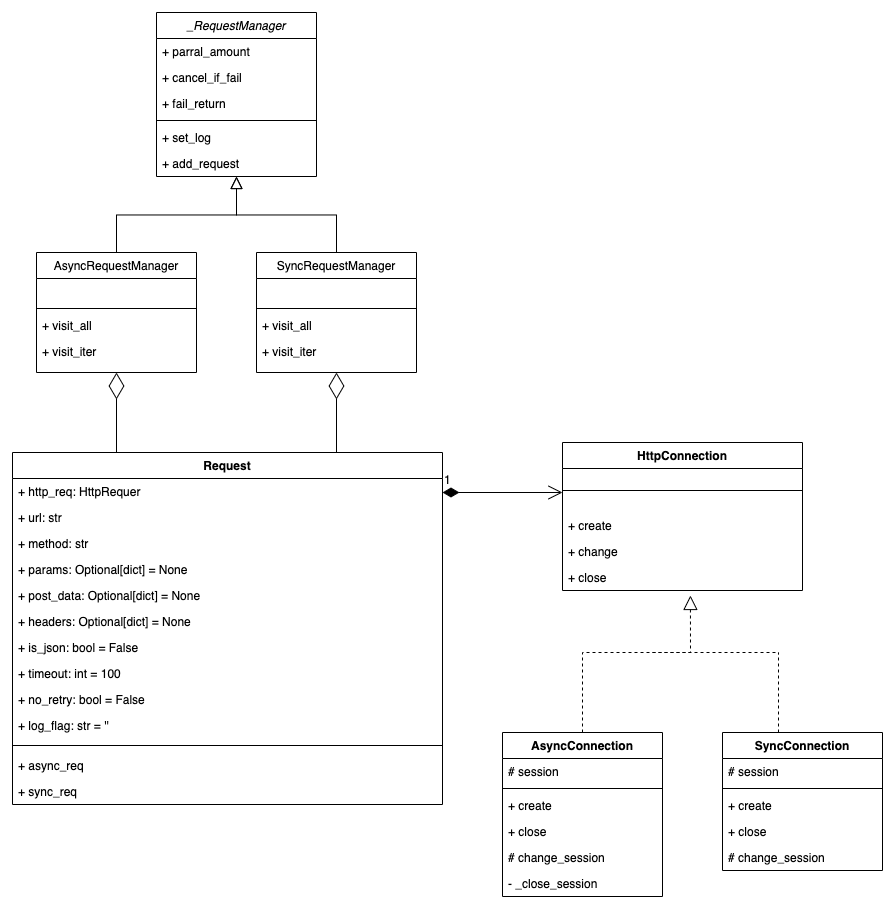
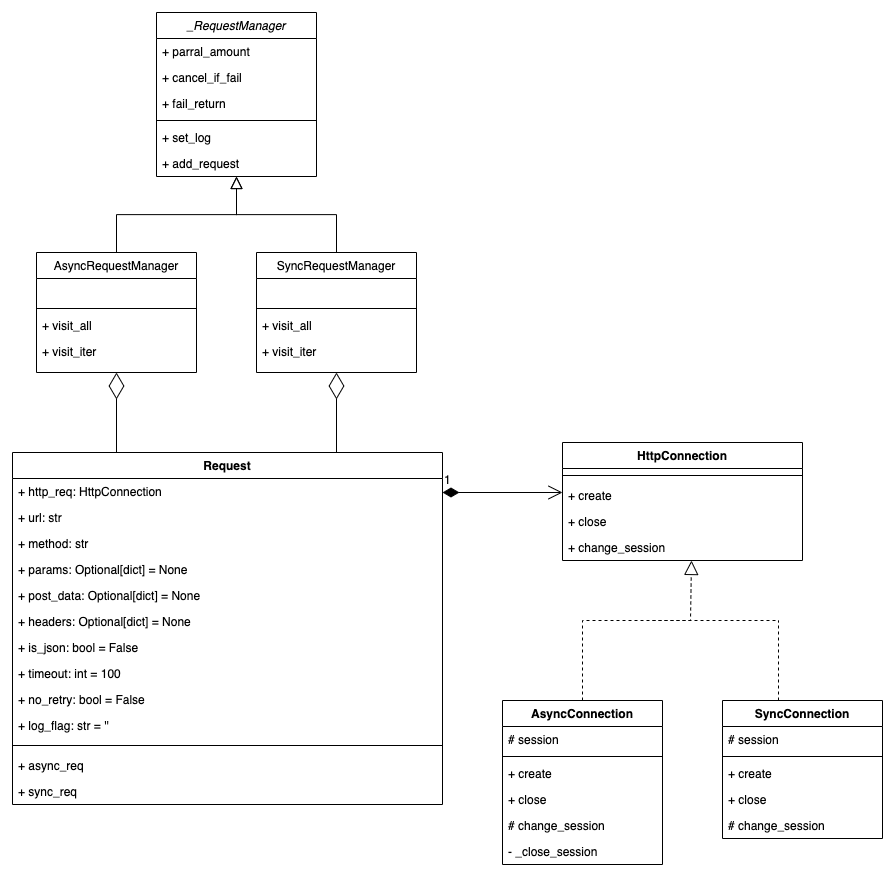
更正UML图

diff --git a/README.md b/README.md
@@ -15,7 +15,7 @@
 
 ### 概念说明
 下面的使用例子会使用到Connection、Request、RequestManager三个类，先提前说明下其命名的逻辑：<br/>
-每个具体http请求被命名为一个**Request**，其使用的http **Connection** pool是作为参数被依赖注入的，而外层使用**RequestManager**来管理一堆http request的访问特征
+每个具体http请求被命名为一个**Request**，其使用的http **Connection** pool是作为参数被依赖注入的，而外层使用**RequestManager**来管理一堆http request的访问特征<br/>
 ![uml](./static/UML.png)
 
 ### 异步访问举例 <br/>
